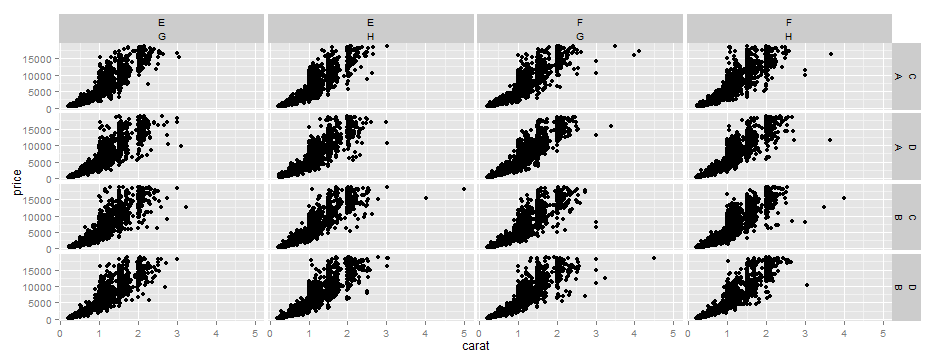
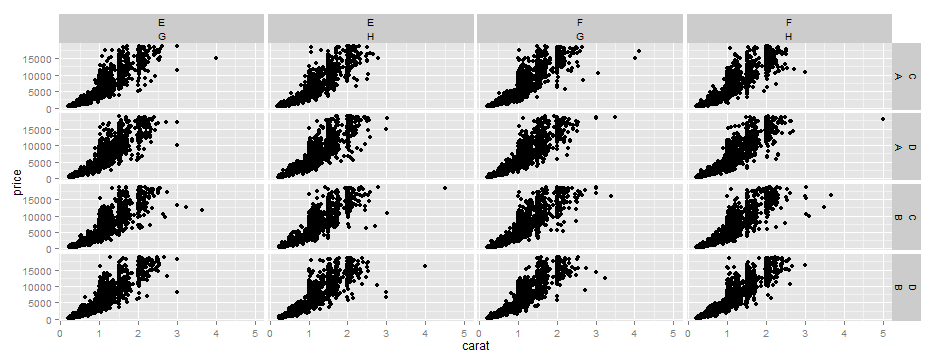
added publish_rubs to control.r

diff --git a/index.html b/index.html
@@ -362,11 +362,11 @@ head(diamonds[, grep(&#39;fake&#39;, names(diamonds))])
 
 <pre><code>##   fake1 fake2 fake3 fake4
 ## 1     B     C     E     G
-## 2     B     C     E     H
-## 3     B     C     E     G
-## 4     A     C     F     G
-## 5     A     D     F     H
-## 6     B     C     F     G
+## 2     B     D     F     H
+## 3     A     D     F     G
+## 4     B     D     E     G
+## 5     A     D     F     G
+## 6     B     D     E     H
 </code></pre>
 
   </article>
@@ -992,7 +992,7 @@ ggnet(cities, mode = &quot;kamadakawai&quot;,
   <article data-timings="">
     <ul>
 <li><p>Easy facetting, pre-loaded and customized themes, spatial data, pairs plots...</p></li>
-<li><p>See online <a href = http://ggplot2.org/>documentation</a> for more comprehensive descriptions</p></li>
+<li><p>See online <a href = http://ggplot2.org/>documentation</a> for additional functionality</p></li>
 <li><p>Presentation materials available <a href = https://github.com/fawda123/ggpres_102>here</a></p></li>
 <li><p>EPA, NHEERL slidify template from Jeff&#39;s <a href = https://github.com/jhollist/jwhSlidifyStyle>repo</a></p></li>
 </ul>

diff --git a/index.md b/index.md
@@ -257,11 +257,11 @@ head(diamonds[, grep('fake', names(diamonds))])
 ```
 ##   fake1 fake2 fake3 fake4
 ## 1     B     C     E     G
-## 2     B     C     E     H
-## 3     B     C     E     G
-## 4     A     C     F     G
-## 5     A     D     F     H
-## 6     B     C     F     G
+## 2     B     D     F     H
+## 3     A     D     F     G
+## 4     B     D     E     G
+## 5     A     D     F     G
+## 6     B     D     E     H
 ```
 
 
@@ -743,7 +743,7 @@ ls(pattern = '^geom_', env = as.environment('package:ggplot2'))
 
 - Easy facetting, pre-loaded and customized themes, spatial data, pairs plots...
 
-- See online <a href = http://ggplot2.org/>documentation</a> for more comprehensive descriptions
+- See online <a href = http://ggplot2.org/>documentation</a> for additional functionality
 
 - Presentation materials available <a href = https://github.com/fawda123/ggpres_102>here</a>
 
